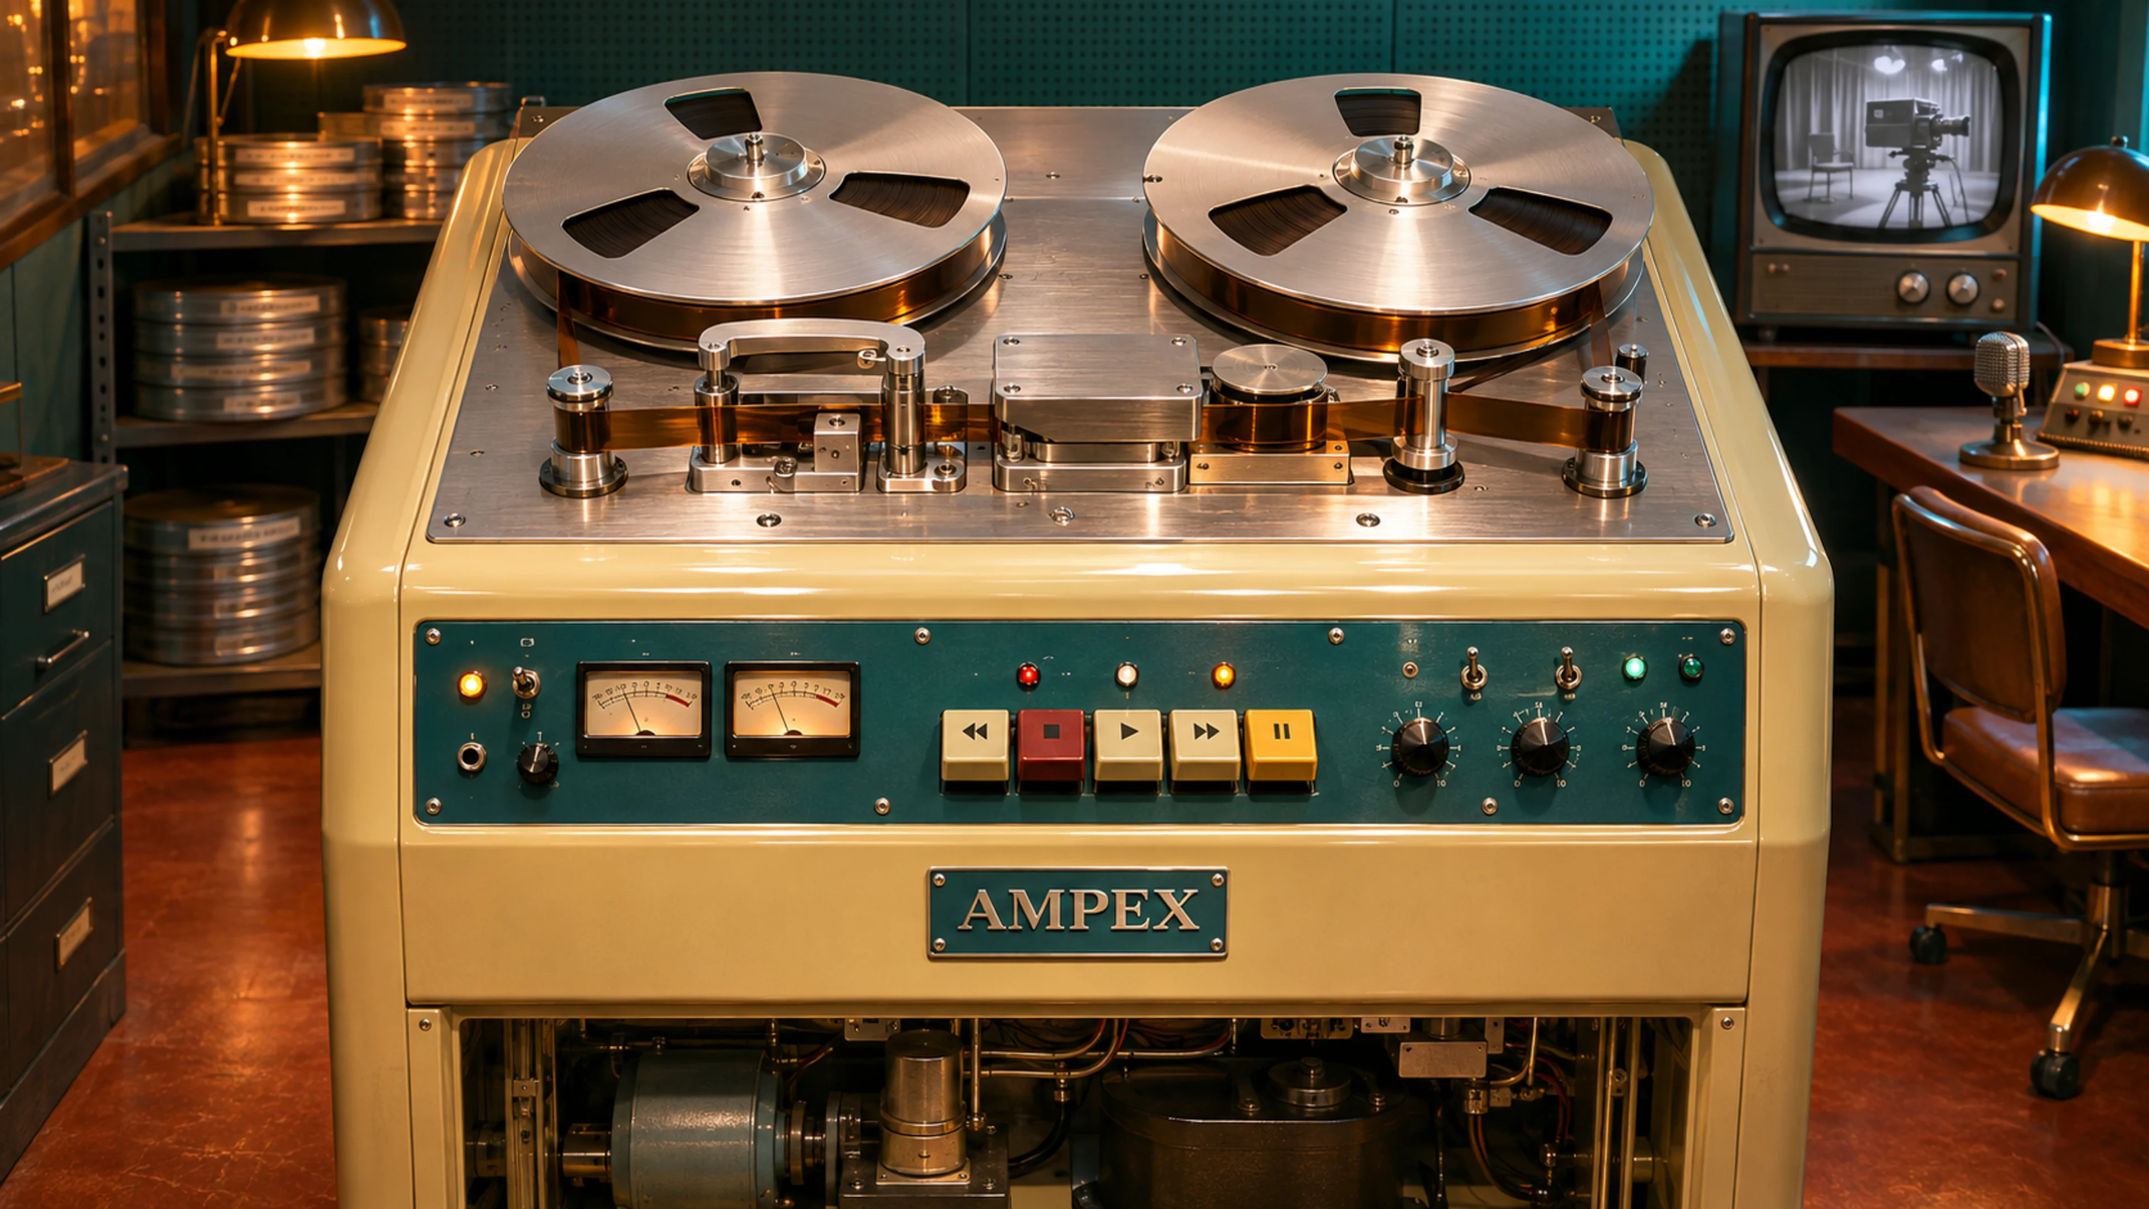
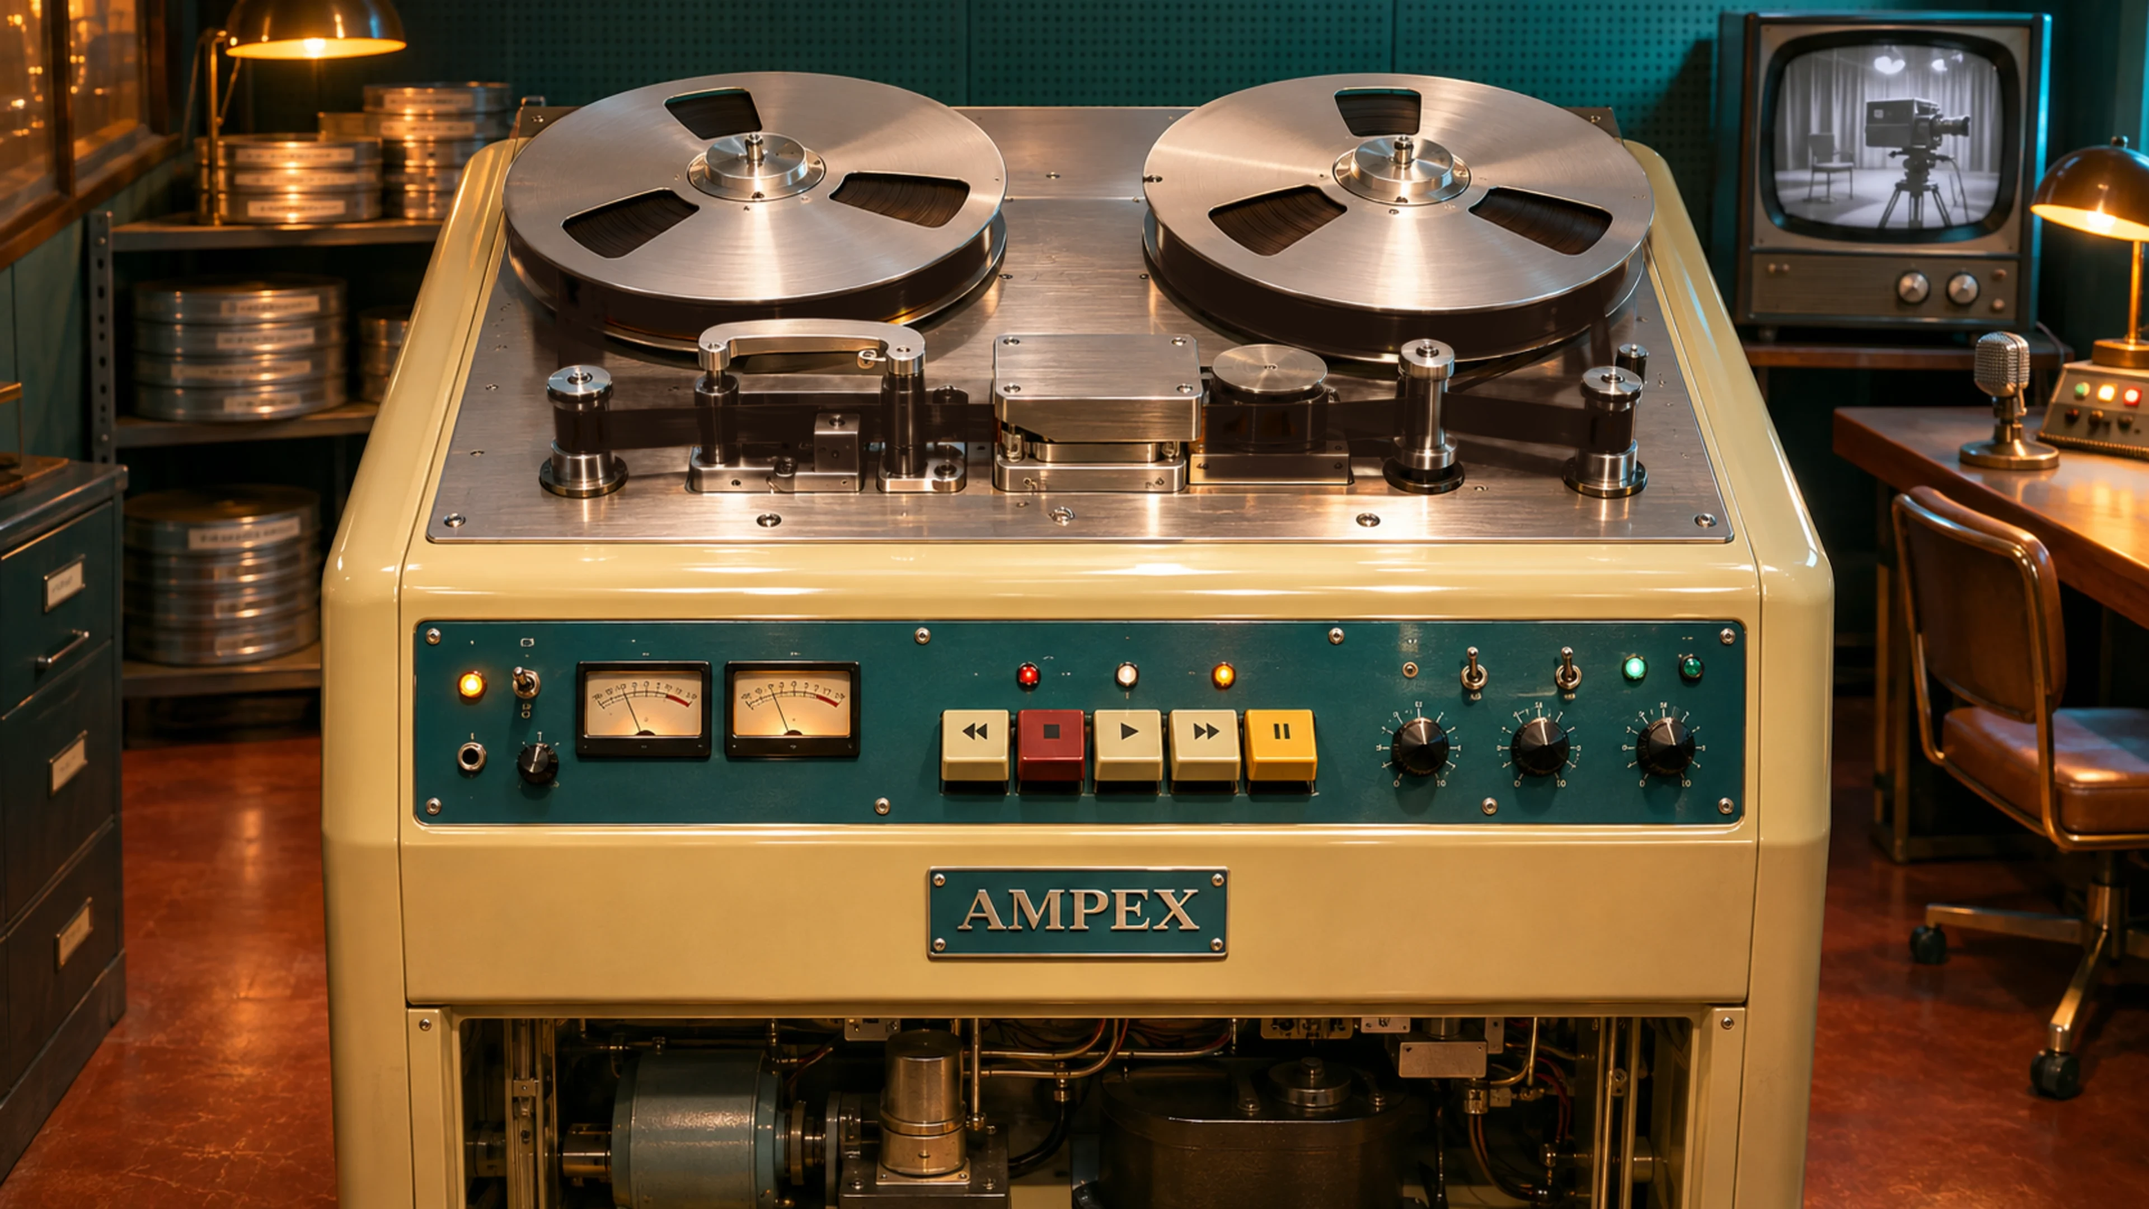
Real 2-inch quad videotape: dark-brown oxide instead of film
- master.webp: the tape in the photograph recoloured from translucent amber to
  opaque satin brown oxide (tools/recolour_tape.py; path found against the
  empty-deck plate, packs between the flanges; metal untouched)
- Threaded tape shows no pictures or perforations; a faint coating texture,
  specks and a splice travel with it so the motion stays visible
- Brown wound-pack tops and tails; clear leader on the take-up tail at the start
- Pack walls sampled below the flange rim

Claude-Session: https://claude.ai/code/session_01Ts4nU2drr7EMqXYiiBcJcV

diff --git a/photo.js b/photo.js
@@ -109,17 +109,17 @@ function onDisc(r,u,v,h=0){const c=Math.cos(r.slant),s=Math.sin(r.slant),X=u*r.r
 const packTop=document.createElement('canvas');packTop.width=packTop.height=768;
 (function buildPackTop(){
  const g=packTop.getContext('2d');g.translate(384,384);g.scale(384,384);
- g.fillStyle='#2a1a10';g.beginPath();g.arc(0,0,1,0,7);g.fill();
+ g.fillStyle='#24170f';g.beginPath();g.arc(0,0,1,0,7);g.fill();
  let seed=7;const rnd=()=>(seed=(seed*16807)%2147483647)/2147483647;
  for(let rr=.26;rr<1;rr+=.0042){
   const v=rnd();g.beginPath();g.arc(0,0,rr,0,7);
   g.lineWidth=.0021+v*.0016;
-  g.strokeStyle=v>.93?'rgba(214,150,92,.42)':v>.7?'rgba(150,96,58,.30)':v<.18?'rgba(8,5,3,.5)':'rgba(70,42,25,.35)';
+  g.strokeStyle=v>.93?'rgba(150,118,92,.38)':v>.7?'rgba(92,66,48,.30)':v<.18?'rgba(6,3,2,.5)':'rgba(50,33,22,.35)';
   g.stroke();
  }
  if(g.createConicGradient){
   const sheen=g.createConicGradient(-.7,0,0);
-  for(const [s,a] of [[0,.05],[.12,.30],[.2,.06],[.5,.04],[.62,.26],[.7,.05],[1,.05]])sheen.addColorStop(s,'rgba(236,178,118,'+a+')');
+  for(const [s,a] of [[0,.05],[.12,.30],[.2,.06],[.5,.04],[.62,.26],[.7,.05],[1,.05]])sheen.addColorStop(s,'rgba(205,180,155,'+(a*.6)+')');
   g.globalCompositeOperation='screen';g.fillStyle=sheen;g.beginPath();g.arc(0,0,1,0,7);g.fill();g.globalCompositeOperation='source-over';
  }
 })();
@@ -137,7 +137,7 @@ function buildPhotoSamples(){
   src.width=bw;src.height=bh;const sg=src.getContext('2d',{willReadFrequently:true});sg.drawImage(photo,-bx,-by);
   const pix=sg.getImageData(0,0,bw,bh).data,out=wg.createImageData(W,H);
   for(let j=0;j<H;j++)for(let i=0;i<W;i++){
-   const phi=(i+.5)/W*Math.PI,h=1.2+(j+.5)/H*(r.d-1.6);
+   const phi=(i+.5)/W*Math.PI,h=3.2+(j+.5)/H*(r.d-4.2);   // below the flange rim
    const [px,py]=onDisc(r,.985*Math.cos(phi),.985*Math.sin(phi),h);
    const X=Math.min(bw-1,Math.max(0,Math.round(px*sx-bx))),Y=Math.min(bh-1,Math.max(0,Math.round(py*sy-by)));
    const k=(Y*bw+X)*4,o=(j*W+i)*4;out.data[o]=pix[k];out.data[o+1]=pix[k+1];out.data[o+2]=pix[k+2];out.data[o+3]=255;
@@ -259,7 +259,7 @@ function drawReel(g,r,R,rot,spinStep){
  // clear leader at the ends of the reel looks clear
  // (none once the tape's end has left the path)
  const t=r.i?position:tapeAtSupply();
- if(heldFraction(r.i)>0&&t>TAPE_FIRST+.05&&t<TAPE_LAST-.05)drawTail(g,r,R,t<0||t>TAPE_SECONDS)
+ if(heldFraction(r.i)>0&&t>TAPE_FIRST+.05&&t<TAPE_LAST-.05)drawTail(g,r,R,r.i?(t<=0||t>TAPE_SECONDS):(t<0||t>=TAPE_SECONDS))
  // ---- 7. top flange ------------------------------------------------------------------
  g.save();g.beginPath();g.save();plateDisc(g,r,1.7);g.arc(0,0,1,0,Math.PI*2);g.restore();
  g.save();plateDisc(g,r,0);g.moveTo(1,0);g.arc(0,0,1,0,Math.PI*2);g.restore();g.translate(r.x,0);
@@ -295,7 +295,7 @@ function cylinder(g,r,R,d,texture,c0,c1){
  g.save();g.save();plateDisc(g,r,.6);g.beginPath();g.arc(0,0,R,0,Math.PI*2);g.restore();g.clip();
  const bx=reelBox(r);g.drawImage(r.packProj,bx.x,bx.y+.6,bx.w,bx.h);
  plateDisc(g,r,.6);
- g.lineWidth=.007;g.strokeStyle='rgba(232,170,110,.45)';g.beginPath();g.arc(0,0,R-.004,Math.PI*1.05,Math.PI*1.95);g.stroke();
+ g.lineWidth=.007;g.strokeStyle='rgba(196,168,140,.35)';g.beginPath();g.arc(0,0,R-.004,Math.PI*1.05,Math.PI*1.95);g.stroke();
  g.restore();
  // contact shadow where the pack meets the lower flange
  g.save();plateDisc(g,r,d);g.beginPath();g.arc(0,0,R+.02,0,Math.PI);g.lineWidth=.02;g.strokeStyle='rgba(10,7,4,.35)';g.stroke();g.restore();
@@ -314,10 +314,10 @@ function drawTail(g,r,R,clear){
  const nx=-(etop[1]-top[1]),ny=etop[0]-top[0],n=Math.hypot(nx,ny)||1,span=6;
  const mx=(top[0]+etop[0])/2,my=(top[1]+etop[1])/2;
  const across=g.createLinearGradient(mx,my,mx-nx/n*span*r.side,my-ny/n*span*r.side);
- across.addColorStop(0,'rgba(206,138,72,.94)');across.addColorStop(.4,'rgba(128,68,26,.9)');across.addColorStop(1,'rgba(64,32,12,.94)');
+ across.addColorStop(0,'rgba(92,68,52,.98)');across.addColorStop(.3,'rgba(48,32,22,.98)');across.addColorStop(1,'rgba(22,14,9,.98)');
  if(clear){g.fillStyle='rgba(236,226,200,.16)';g.fill();g.lineWidth=.5;g.strokeStyle='rgba(255,248,226,.55)';g.stroke()}
  else{g.fillStyle=across;g.fill()}
- g.lineWidth=.55;g.strokeStyle='rgba(255,214,150,.7)';g.beginPath();g.moveTo(...top);g.lineTo(...etop);g.stroke();
+ g.lineWidth=.55;g.strokeStyle='rgba(205,182,158,.55)';g.beginPath();g.moveTo(...top);g.lineTo(...etop);g.stroke();
  g.lineWidth=.5;g.strokeStyle='rgba(30,14,5,.55)';g.beginPath();g.moveTo(...bot);g.lineTo(...ebot);g.stroke();
  g.restore();
 }
@@ -390,88 +390,29 @@ function resizeLive(){
 new ResizeObserver(resizeLive).observe(room);resizeLive();
 
 // ---------------------------------------------------------------------------
-// THREADED TAPE — the visitor sees the programme travelling along the path.
-// (Real quadruplex tape carries invisible magnetic tracks; the film-like frames
-// are the exhibit's way of showing what the tape holds.)
+// THREADED TAPE — two-inch quadruplex videotape: an opaque, dark-brown oxide
+// ribbon. The pictures are recorded as invisible magnetic tracks, so nothing is
+// printed on it; what shows that it moves is the faint, uneven texture of the
+// coating (slight density changes, the odd speck) travelling with it.
 // ---------------------------------------------------------------------------
-const tapeStills=new Map();
-function tapeStill(id){
- if(!tapeStills.has(id)){
-  tapeStills.set(id,null);
-  const v=document.createElement('video');v.muted=true;v.preload='auto';v.playsInline=true;
-  v.onloadedmetadata=()=>{v.currentTime=Math.min(3,v.duration/3)};
-  v.onseeked=()=>{const still=document.createElement('canvas');still.width=80;still.height=60;still.getContext('2d').drawImage(v,0,0,80,60);tapeStills.set(id,still);v.onseeked=v.onloadedmetadata=null;v.removeAttribute('src');v.load()};
-  v.src=programs[id].file;
+const OXIDE_LEN=256;   // plate px covered by one texture tile
+const oxideTile=document.createElement('canvas');oxideTile.width=OXIDE_LEN*2;oxideTile.height=26;
+(function buildOxide(){
+ const g=oxideTile.getContext('2d'),W=oxideTile.width,H=oxideTile.height,img=g.createImageData(W,H),d=img.data;
+ let seed=1956;const rnd=()=>(seed=(seed*16807)%2147483647)/2147483647;
+ // low-frequency density along the length (wraps seamlessly)
+ const wave=x=>.55*Math.sin(x*Math.PI*2*3/W+.7)+.3*Math.sin(x*Math.PI*2*7/W+2.1)+.15*Math.sin(x*Math.PI*2*13/W+4.4);
+ const rows=[];for(let y=0;y<H;y++)rows.push((rnd()-.5)*.9);           // lengthwise coating streaks
+ for(let y=0;y<H;y++)for(let x=0;x<W;x++){
+  const v=wave(x)*.6+rows[y]*.5+(rnd()-.5)*.35,o=(y*W+x)*4;
+  if(v>0){d[o]=210;d[o+1]=182;d[o+2]=150;d[o+3]=Math.min(255,v*46)}   // lighter, satin
+  else{d[o]=8;d[o+1]=4;d[o+2]=2;d[o+3]=Math.min(255,-v*70)}           // denser oxide
  }
- return tapeStills.get(id);
-}
-// Each frame on the tape is a small film cell: amber base, dark perforated
-// edges and a vivid picture. While the programme plays, the frame passing the
-// heads is captured from the CRT's own footage, so the tape carries the same
-// pictures the monitor shows, in order, and keeps them as it travels on.
-const CELL_W=96,CELL_H=72,PIC_X=6,PIC_Y=12,PIC_W=CELL_W-12,PIC_H=CELL_H-24;
-const cellWork=document.createElement('canvas');cellWork.width=PIC_W;cellWork.height=PIC_H;
-const cellWorkPaint=cellWork.getContext('2d',{willReadFrequently:true});
-const vignette=new Float32Array(PIC_W*PIC_H);
-for(let y=0;y<PIC_H;y++)for(let x=0;x<PIC_W;x++){const dx=(x+.5)/PIC_W-.5,dy=(y+.5)/PIC_H-.5;vignette[y*PIC_W+x]=1-.55*(dx*dx+dy*dy)*2}
-function filmCell(source){
- const c=document.createElement('canvas');c.width=CELL_W;c.height=CELL_H;const g=c.getContext('2d');
- // film base with a faint lengthwise sheen
- const base=g.createLinearGradient(0,0,0,CELL_H);
- base.addColorStop(0,'#5a2f12');base.addColorStop(.18,'#2c1608');base.addColorStop(.5,'#1d0e05');base.addColorStop(.82,'#2c1608');base.addColorStop(1,'#5a2f12');
- g.fillStyle=base;g.fillRect(0,0,CELL_W,CELL_H);
- // perforations along both edges
- g.fillStyle='#0b0502';
- for(let k=0;k<4;k++){g.beginPath();g.roundRect(5+k*24,3,11,5.5,1.6);g.roundRect(5+k*24,CELL_H-8.5,11,5.5,1.6);g.fill()}
- g.fillStyle='rgba(255,196,120,.18)';
- for(let k=0;k<4;k++){g.fillRect(5.5+k*24,8.2,10,.8);g.fillRect(5.5+k*24,CELL_H-3.2,10,.8)}
- if(source){
-  cellWorkPaint.clearRect(0,0,PIC_W,PIC_H);cellWorkPaint.drawImage(source,0,0,PIC_W,PIC_H);
-  const img=cellWorkPaint.getImageData(0,0,PIC_W,PIC_H),d=img.data;
-  for(let i=0,p=0;i<d.length;i+=4,p++){
-   let r=d[i],gr=d[i+1],b=d[i+2];const l=.3*r+.59*gr+.11*b;
-   // more saturation and contrast, a warm print tone, gently darker corners
-   r=l+(r-l)*1.35;gr=l+(gr-l)*1.35;b=l+(b-l)*1.35;
-   r=(r-128)*1.28+138;gr=(gr-128)*1.28+128;b=(b-128)*1.28+112;
-   const v=vignette[p];
-   d[i]=Math.max(0,Math.min(255,r*v*1.04));d[i+1]=Math.max(0,Math.min(255,gr*v));d[i+2]=Math.max(0,Math.min(255,b*v*.9));
-  }
-  cellWorkPaint.putImageData(img,0,0);
-  g.save();g.beginPath();g.roundRect(PIC_X,PIC_Y,PIC_W,PIC_H,3);g.clip();g.drawImage(cellWork,PIC_X,PIC_Y);g.restore();
- }else{
-  g.fillStyle='#120803';g.beginPath();g.roundRect(PIC_X,PIC_Y,PIC_W,PIC_H,3);g.fill();
- }
- // dark frame line and a thin emulsion edge around the picture
- g.lineWidth=1.6;g.strokeStyle='rgba(8,4,1,.9)';g.beginPath();g.roundRect(PIC_X,PIC_Y,PIC_W,PIC_H,3);g.stroke();
- g.lineWidth=.6;g.strokeStyle='rgba(255,210,150,.22)';g.beginPath();g.roundRect(PIC_X-1.2,PIC_Y-1.2,PIC_W+2.4,PIC_H+2.4,3.6);g.stroke();
- // a whisper of gloss across the whole cell
- const gloss=g.createLinearGradient(0,0,0,CELL_H);gloss.addColorStop(0,'rgba(255,230,190,.10)');gloss.addColorStop(.35,'rgba(255,230,190,0)');
- g.fillStyle=gloss;g.fillRect(0,0,CELL_W,CELL_H);
- return c;
-}
-const filmFrames=new Map();let filmFramesFor='',stillCell=null,stillCellFor='';
-let smearCell=null;
-function fallbackCell(){
- const still=tapeStills.get(loaded);
- if(stillCellFor!==loaded+(still?'+':'')){
-  stillCellFor=loaded+(still?'+':'');stillCell=filmCell(still);
-  // the same cell averaged along its length: what the eye sees when it races past
-  smearCell=document.createElement('canvas');smearCell.width=1;smearCell.height=CELL_H;
-  smearCell.getContext('2d').drawImage(stillCell,0,0,1,CELL_H);
- }
- return stillCell;
-}
-// Called every frame: the cell passing the heads takes the picture on the CRT.
-function recordFilmFrame(phase,pitch){
- if(filmFramesFor!==loaded){filmFrames.clear();filmFramesFor=loaded}
- if(typeof player==='undefined'||programId!==loaded||player.readyState<2||player.seeking||player.paused)return;
- if(!(mode==='play'||mode==='record')||tapeSpeed<.95||position<0||position>TAPE_SECONDS)return;
- const n=Math.ceil((phase-HEAD_DISTANCE)/pitch);
- if(filmFrames.has(n))return;
- filmFrames.set(n,filmCell(player));
- if(filmFrames.size>180)filmFrames.delete(filmFrames.keys().next().value);
-}
-const HEAD_DISTANCE=228;   // path distance (from the first guide) of the head drum
+ g.putImageData(img,0,0);
+ // a few specks and one splice-like mark, so the motion reads clearly
+ for(let k=0;k<9;k++){g.fillStyle='rgba(225,205,175,'+(.35+rnd()*.35)+')';g.fillRect(rnd()*W,2+rnd()*(H-4),1.2+rnd()*2,1)}
+ g.fillStyle='rgba(200,190,175,.22)';g.fillRect(W*.62,0,3,H);g.fillStyle='rgba(0,0,0,.35)';g.fillRect(W*.62+3,0,1,H);
+})();
 // Measured on the 960 × 540 plate. Each span ends behind a guide or housing.
 const filmSpans=[
  [[262,194],[312,189]],[[323,189],[362,190]],[[384,190],[398,191]],[[418,191],[443,192]],
@@ -480,29 +421,18 @@ const filmSpans=[
 // 15 in/s on the plate: flange of 12½ in ≈ 2 × 111 px → ≈ 17.8 px per inch.
 const PLATE_PX_PER_SECOND=15*17.8;
 function drawThreadedFilm(g,phase,blur){
- const height=13,pitch=height*4/3;
- tapeStill(loaded);recordFilmFrame(phase,pitch);
- const fallback=fallbackCell();
+ if(blur>.98)return;             // at spooling speed the texture is an even blur
+ const height=13;
  for(const span of filmSpans){
   let distance=span[0][0]-262;
   for(let i=1;i<span.length;i++){
    const [x,y]=span[i-1],dx=span[i][0]-x,dy=span[i][1]-y,length=Math.hypot(dx,dy);
    g.save();g.translate(x,y);g.rotate(Math.atan2(dy,dx));
    g.beginPath();g.rect(0,-height/2,length,height);g.clip();
-   if(blur>.98){
-    // at spooling speed individual pictures smear into an even band
-    g.globalAlpha=.9;g.drawImage(smearCell,0,-height/2,length,height);
-   }else{
-    // frames sit at fixed places on the tape: as the tape advances (phase grows)
-    // they move downstream, left to right, exactly like the reels pull it
-    const offset=((phase-distance)%pitch+pitch)%pitch;
-    g.globalAlpha=.95*(1-blur*.5);
-    for(let u=offset-pitch;u<length;u+=pitch){
-     const n=Math.round((phase-distance-u)/pitch);
-     g.drawImage(filmFrames.get(n)||fallback,u,-height/2,pitch+.04,height);
-    }
-    if(blur>0){g.globalAlpha=blur*.7;g.drawImage(smearCell,0,-height/2,length,height)}
-   }
+   // texture fixed to the tape: it moves downstream, left to right, on PLAY
+   const offset=((phase-distance)%OXIDE_LEN+OXIDE_LEN)%OXIDE_LEN;
+   g.globalAlpha=1-blur;
+   for(let u=offset-OXIDE_LEN;u<length;u+=OXIDE_LEN)g.drawImage(oxideTile,u,-height/2,OXIDE_LEN+.05,height);
    g.restore();distance+=length;
   }
  }
@@ -560,7 +490,7 @@ function animateStudio(now){
  if(document.hidden||!reelsReady)return;
  // Nothing moves while the transport is still and the monitor is dark: keep the
  // last frame instead of repainting it, to spare the visitor's battery.
- const scene=[loaded,power,mode,position.toFixed(3),reelAngle[0].toFixed(4),reelAngle[1].toFixed(4),density,liveCanvas.width,facesOK,!!bareDeck.naturalWidth,!!tapeStills.get(loaded),LAMPS.map(l=>l[4]()?1:0).join('')].join();
+ const scene=[loaded,power,mode,position.toFixed(3),reelAngle[0].toFixed(4),reelAngle[1].toFixed(4),density,liveCanvas.width,facesOK,!!bareDeck.naturalWidth,LAMPS.map(l=>l[4]()?1:0).join('')].join();
  const idle=!(power&&loaded&&mode!=='stop')&&Math.abs(tapeSpeed)<1e-4;
  if(idle&&scene===lastScene&&livePainted)return;
  lastScene=scene;

diff --git a/tools/recolour_tape.py b/tools/recolour_tape.py
@@ -1,0 +1,72 @@
+"""Recolour the tape in the master photograph as real 2-inch quadruplex videotape.
+
+The generated photograph showed the tape as bright, translucent amber, like
+film stock. Real quad tape (e.g. Scotch 400) is an opaque ribbon: dark
+chocolate-brown oxide with a soft satin sheen. Only tape pixels change:
+
+* along the threaded path, tape is found by comparing with empty.webp (the same
+  studio with no reels or tape) and keeping the warm, saturated difference;
+* on the reels, the wound pack is the warm band between the two flanges.
+
+Usage: python3 tools/recolour_tape.py SOURCE OUT
+SOURCE is the original amber plate, kept in git history (master.webp before
+this script was introduced); OUT is normally master.webp.
+"""
+import sys
+import numpy as np
+from PIL import Image
+from scipy.ndimage import gaussian_filter, binary_dilation
+
+src_path, out_path = sys.argv[1], sys.argv[2]
+img = Image.open(src_path).convert('RGB')
+W, H = img.size
+K = W / 960.0
+a = np.asarray(img, dtype=np.float32) / 255
+e = np.asarray(Image.open('empty.webp').convert('RGB').resize((W, H)), dtype=np.float32) / 255
+
+mx, mn = a.max(2), a.min(2)
+sat = (mx - mn) / (mx + 1e-4)
+r, g, b = a[..., 0], a[..., 1], a[..., 2]
+hue = np.zeros_like(mx)
+m = (mx == r) & (mx > mn)
+hue[m] = ((g - b)[m] / (mx - mn)[m]) % 6 * 60
+warm = np.clip((sat - .28) / .2, 0, 1) * ((hue > 8) & (hue < 48))
+
+yy, xx = np.mgrid[0:H, 0:W].astype(np.float32) / K
+
+# ---- 1. threaded path: tape is what differs from the empty deck ------------------
+path_zone = (yy > 168) & (yy < 214) & (xx > 232) & (xx < 742) & ~((xx > 443) & (xx < 538))  # tape runs behind the head block
+tails = ((xx > 238) & (xx < 270) & (yy > 132) & (yy < 175)) | ((xx > 698) & (xx < 730) & (yy > 132) & (yy < 168))
+diff = np.abs(a - e).sum(2)
+on_path = (path_zone | tails) & (diff > .16)
+on_path = binary_dilation(on_path, iterations=int(2 * K)) & (path_zone | tails)
+
+# ---- 2. wound packs: the band between the upper and lower flange ------------------
+REELS = [(336.6, 82.5, 111.2, 50.4, -.013, 11), (624.5, 85.2, 112.9, 51.2, .028, 19)]
+pack = np.zeros((H, W), bool)
+for cx, cy, rx, ry, sl, d in REELS:
+    c, s = np.cos(sl), np.sin(sl)
+    def inside(h, scale=1.0):
+        X, Y = xx - cx, yy - (cy + h)
+        u, v = (c * X + s * Y) / (rx * scale), (-s * X + c * Y) / (ry * scale)
+        return u * u + v * v <= 1
+    band = np.zeros((H, W), bool)
+    for h in np.linspace(0, d + 6, 30):   # pack wall plus its reflection in the lower flange
+        band |= inside(h, 1.002)
+    pack |= band & ~inside(0, 0.985)
+
+mask = (on_path | pack).astype(np.float32) * warm
+mask = gaussian_filter(mask, .8 * K)
+
+# ---- recolour: opaque satin oxide ------------------------------------------------
+L = (.3 * r + .59 * g + .11 * b)
+t = np.clip((L - .12) / .8, 0, 1) ** 1.15
+dark = np.array([.115, .068, .041])      # deep shadow on the oxide
+mid = np.array([.33, .215, .145])        # oxide under the studio light
+sheen = np.array([.70, .60, .50])        # satin highlight, never mirror-bright
+tape = dark + (mid - dark) * t[..., None]
+hi = np.clip((t - .72) / .28, 0, 1)[..., None] ** 1.6
+tape = tape + (sheen - tape) * hi * .55
+out = a * (1 - mask[..., None]) + tape * mask[..., None]
+Image.fromarray((np.clip(out, 0, 1) * 255 + .5).astype(np.uint8)).save(out_path, quality=90, method=6)
+print('recoloured', round(float((mask > .5).mean()) * 100, 2), '% of the plate ->', out_path)

diff --git a/README.md b/README.md
@@ -14,3 +14,4 @@ Static site, no build step.
 | `edit.js` | Editing bench and music |
 | `studio.js` | Programmes, monitor picture, reel-change animation, 15 history pages, hardware dials |
 | `reels.webp` | Clean reel flanges rebuilt from `master.webp` by `tools/build_reel_faces.py` |
+| `master.webp` | Studio plate; its tape recoloured as brown 2-inch oxide by `tools/recolour_tape.py` (amber original in git history) |
